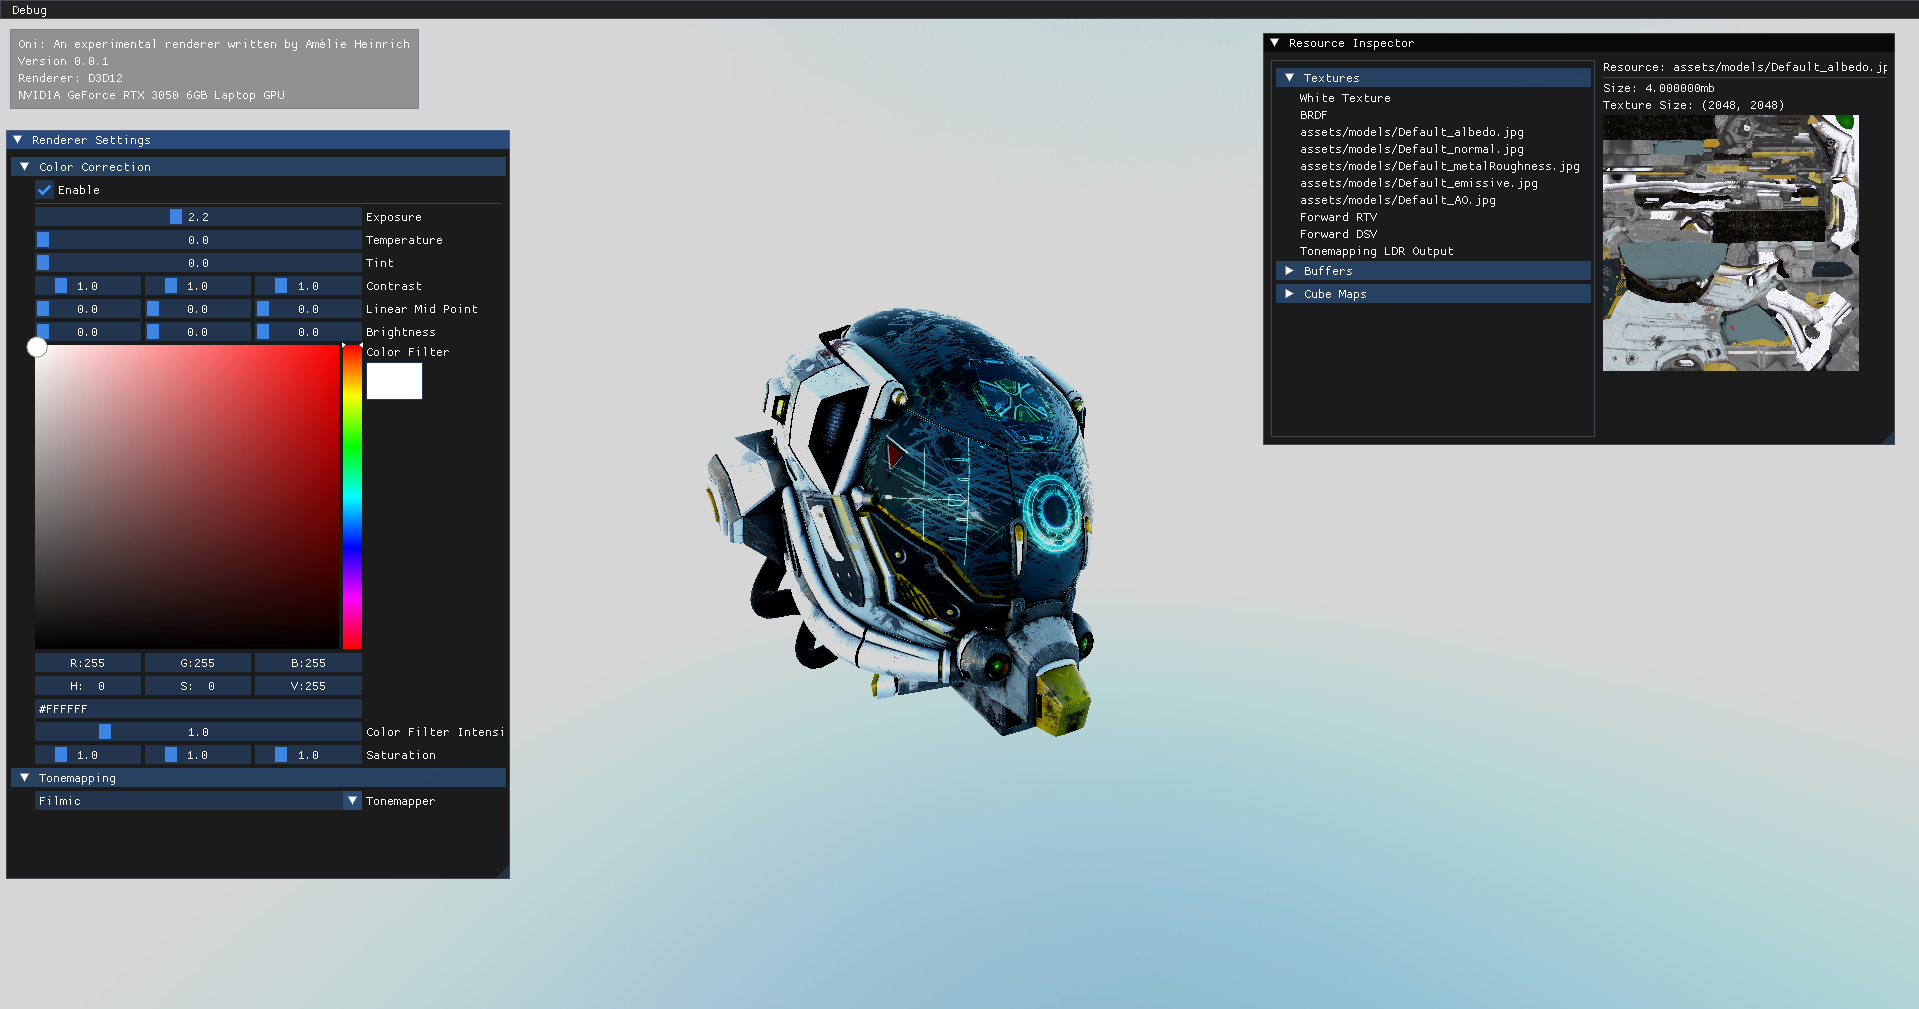
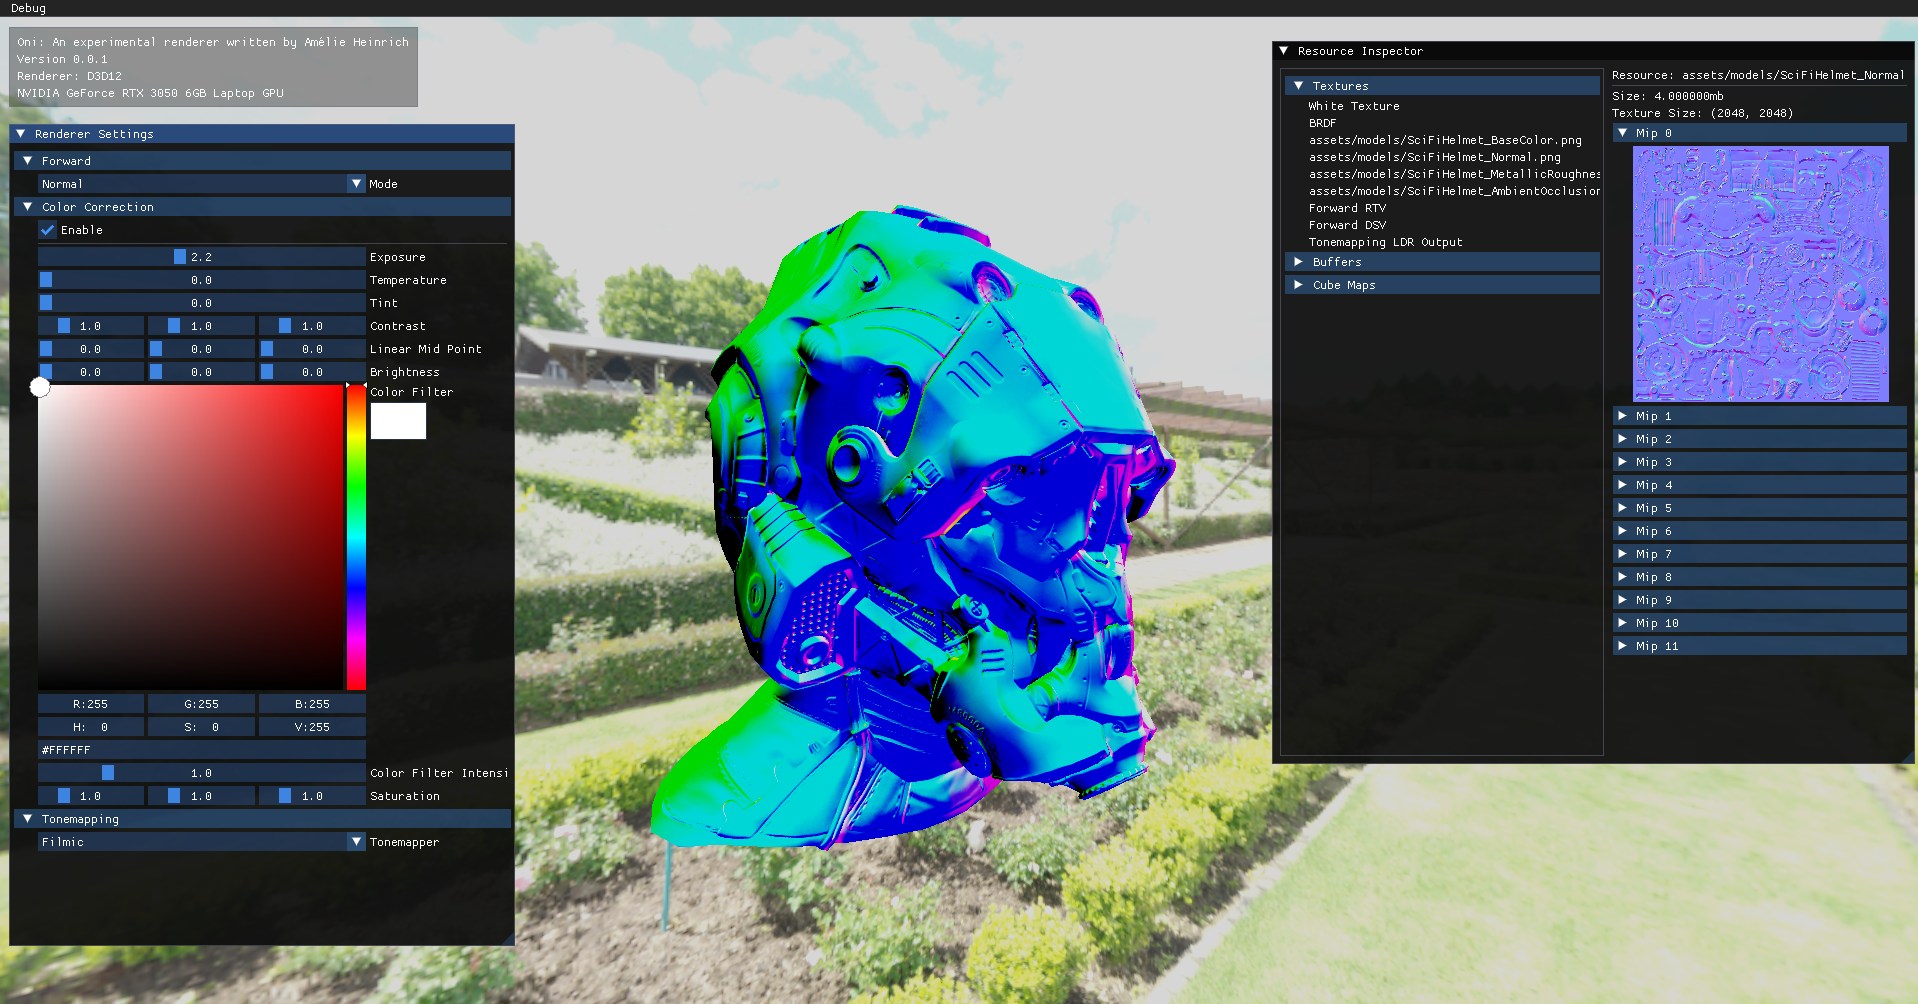
[FIX] Modify README.md

diff --git a/src/renderer/techniques/envmap_forward.cpp b/src/renderer/techniques/envmap_forward.cpp
@@ -108,8 +108,6 @@ EnvMapForward::EnvMapForward(RenderContext::Ptr context, Texture::Ptr inputColor
     _cubeBuffer = context->CreateBuffer(sizeof(CubeVertices), sizeof(glm::vec3), BufferType::Vertex, false, "Cube Buffer");
     _cubeCBV = context->CreateBuffer(256, 0, BufferType::Constant, false, "Cube Map CBV");
     _cubeCBV->BuildConstantBuffer();
-    _prefilterBuffer = context->CreateBuffer(256, 0, BufferType::Constant, false, "Prefilter Buffer CBV");
-    _prefilterBuffer->BuildConstantBuffer();
 
     uploader.CopyHostToDeviceLocal((void*)CubeVertices, sizeof(CubeVertices), _cubeBuffer);
 
@@ -141,6 +139,12 @@ EnvMapForward::EnvMapForward(RenderContext::Ptr context, Texture::Ptr inputColor
     _context->ExecuteCommandBuffers({ cmdBuffer }, CommandQueueType::Graphics);
 
     // Prefilter
+    std::array<Buffer::Ptr, 5> prefilterBuffers;
+    for (auto& buffer : prefilterBuffers) {
+        buffer = _context->CreateBuffer(256, 0, BufferType::Constant, false, "Prefilter Buffer");
+        buffer->BuildConstantBuffer();
+    }
+
     cmdBuffer->Begin();
     cmdBuffer->BindComputePipeline(_prefilter);
     cmdBuffer->BindComputeCubeMapShaderResource(_map.Environment, 0);
@@ -153,13 +157,12 @@ EnvMapForward::EnvMapForward(RenderContext::Ptr context, Texture::Ptr inputColor
         glm::vec4 roughnessVec(roughness, 0.0f, 0.0f, 0.0f);
 
         void *pData;
-        _prefilterBuffer->Map(0, 0, &pData);
+        prefilterBuffers[i]->Map(0, 0, &pData);
         memcpy(pData, glm::value_ptr(roughnessVec), sizeof(glm::vec4));
-        _prefilterBuffer->Unmap(0, 0);
-
+        prefilterBuffers[i]->Unmap(0, 0);
 
         cmdBuffer->BindComputeCubeMapStorage(_map.PrefilterMap, 1, i);
-        cmdBuffer->BindComputeConstantBuffer(_prefilterBuffer, 3);
+        cmdBuffer->BindComputeConstantBuffer(prefilterBuffers[i], 3);
         cmdBuffer->Dispatch(width / 32, height / 32, 6);
     }
     cmdBuffer->End();

diff --git a/src/app.cpp b/src/app.cpp
@@ -39,7 +39,7 @@ App::App()
     _renderer = std::make_unique<Renderer>(_renderContext);
 
     Model model;
-    model.Load(_renderContext, "assets/models/DamagedHelmet.gltf");
+    model.Load(_renderContext, "assets/models/SciFiHelmet.gltf");
 
     scene.Models.push_back(model);
 

diff --git a/src/renderer/techniques/envmap_forward.hpp b/src/renderer/techniques/envmap_forward.hpp
@@ -8,6 +8,8 @@
 #include <rhi/render_context.hpp>
 #include <renderer/scene.hpp>
 
+#include <array>
+
 struct EnvironmentMap
 {
     CubeMap::Ptr Environment;
@@ -44,5 +46,4 @@ private:
 
     Buffer::Ptr _cubeBuffer;
     Buffer::Ptr _cubeCBV;
-    Buffer::Ptr _prefilterBuffer;
 };

diff --git a/README.md b/README.md
@@ -29,7 +29,7 @@ Oni is an experimental sandbox renderer written in C++ with D3D12. It's purpose 
 ### Techniques
 
 - Forward shading
-- IBL (experimental)
+- IBL
 - Normal, PBR, emissive, AO textures
 - Skybox renderer
 
@@ -50,9 +50,9 @@ Oni is an experimental sandbox renderer written in C++ with D3D12. It's purpose 
 
 ### Physically Based Rendering - IBL
 
-| Damaged Helmet | Chess Set |
+| Damaged Helmet | Chess Set | Sponza |
 |---|---|
-| ![](screenshots/DamgedHelmetPBR.png) | ![](screenshots/ChessSetPBR.png) |
+| ![](screenshots/DamgedHelmetPBR.png) | ![](screenshots/ChessSetPBR.png) | ![](screenshots/SponzaPBR.png) |
 
 ### Color correction
 
